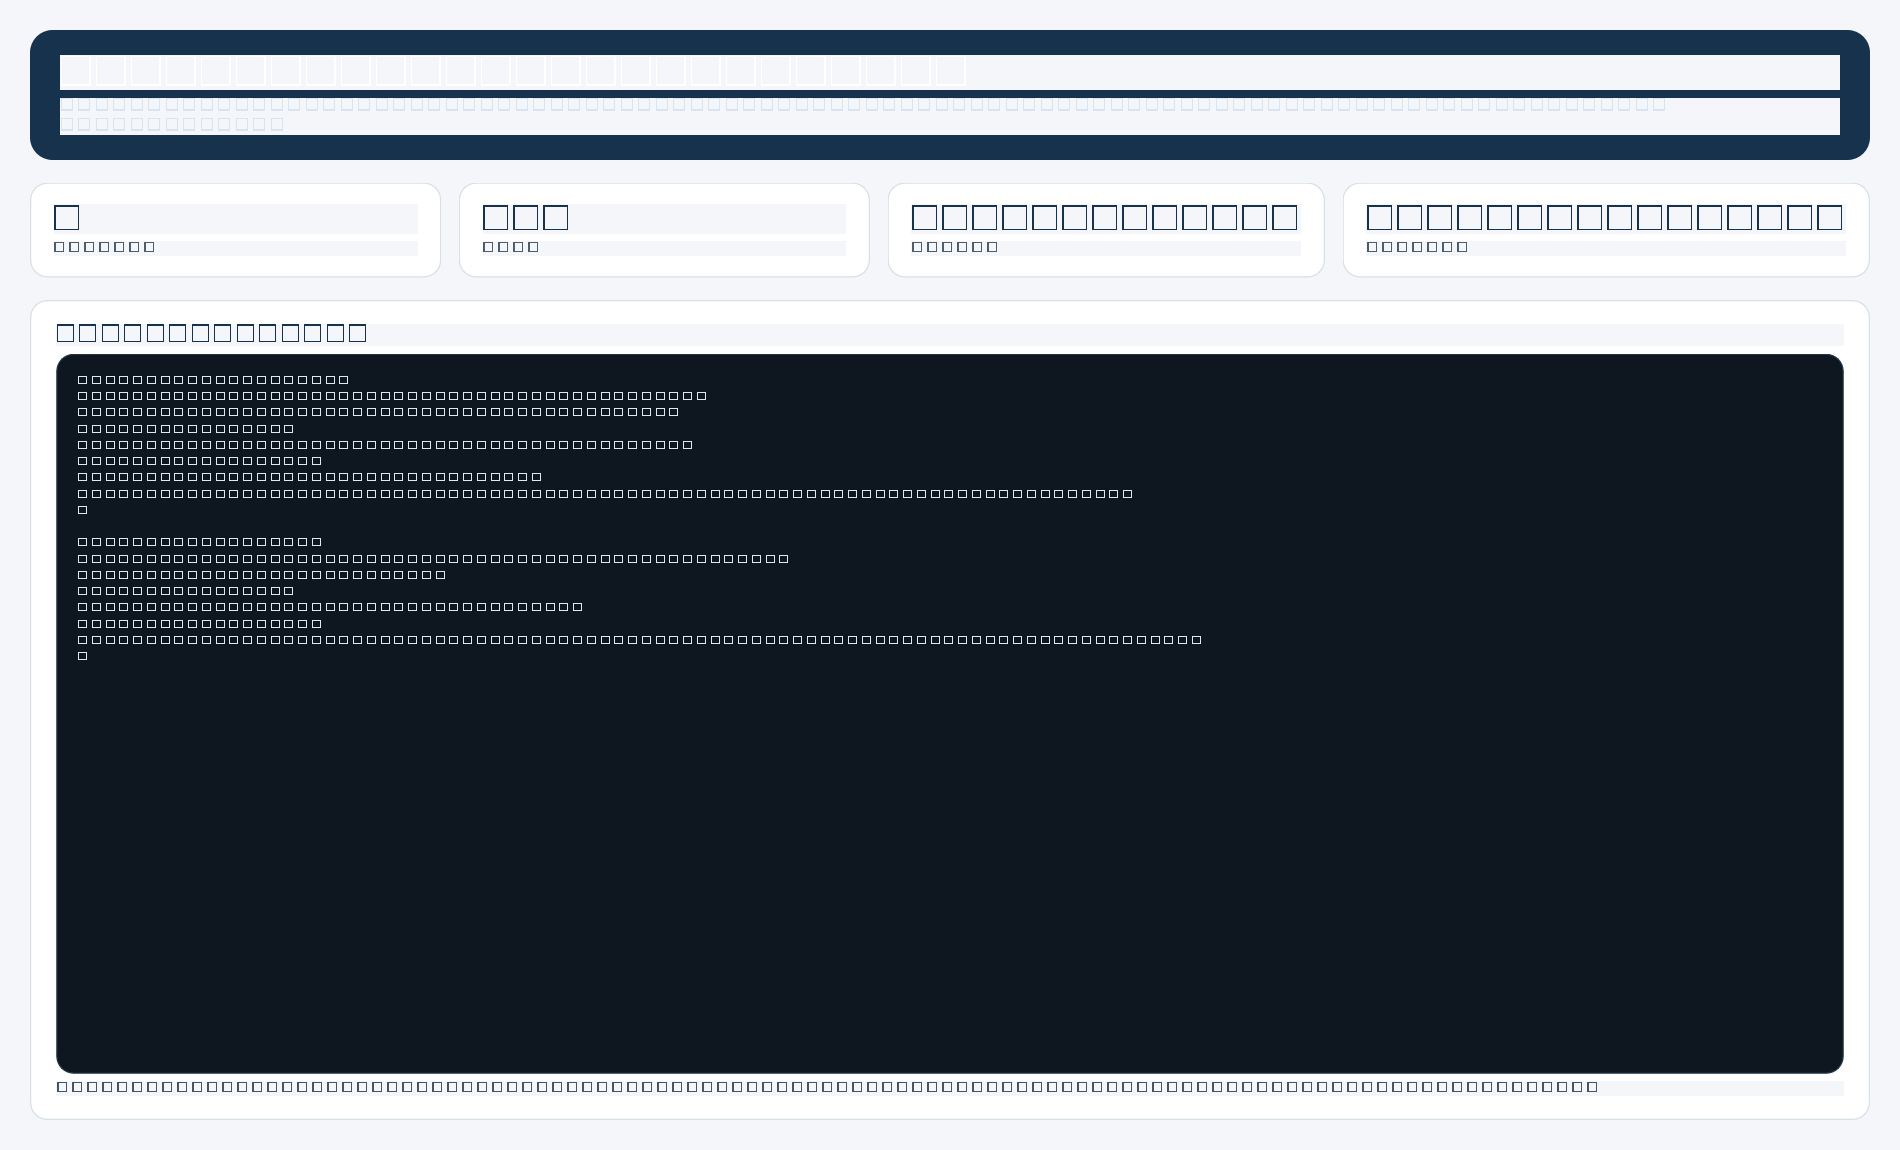
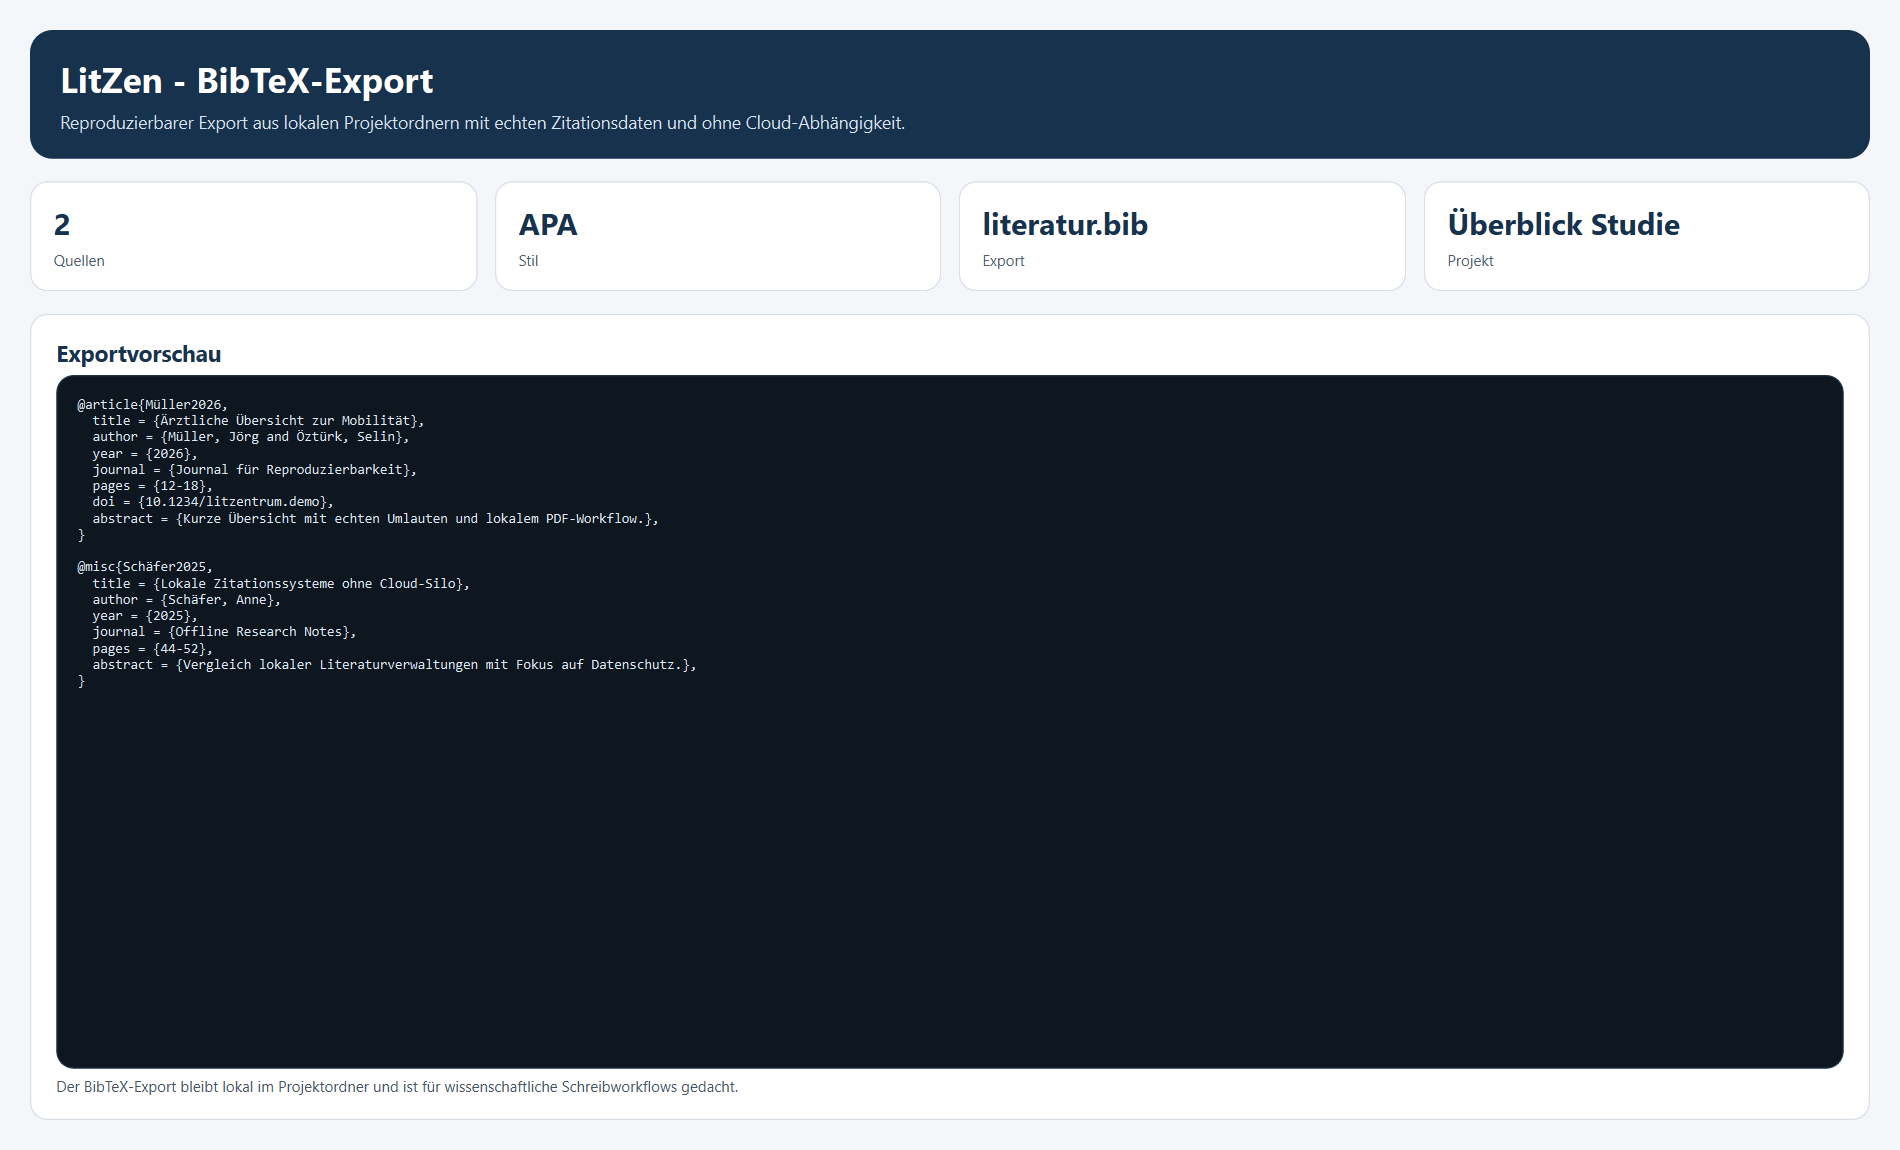
fix: Store-Screenshots zeigten Tofu statt Text (Welle-1 U2)
Alle vier Store-Screenshots bestanden aus leeren Kaestchen -- keine einzige
lesbare Beschriftung. Als Store-Material waren sie unbrauchbar und haetten
unter Policy 10.1.1.3 zur Ablehnung gefuehrt.

Ursache: generate_store_screenshots.py setzte QT_QPA_PLATFORM=offscreen.
Unter der offscreen-Plattform rendert Qt auf diesem System keine echten
Glyphen; jedes Zeichen wird zum .notdef-Kaestchen, und widget.grab()
fotografiert genau das.

Behoben nach dem Muster von DATA/REL_ProfiPrompt:
- _ensure_native_platform() raeumt ein erzwungenes offscreen ab, bevor die
  QApplication entsteht (Testlaeufe duerfen es weiterhin setzen).
- Fenster und Vorschau-Widgets werden ueber Qt.WA_DontShowOnScreen
  unsichtbar gehalten statt ueber die Plattform.
- Laufzeit-Guard: laeuft Qt dennoch unter offscreen, bricht der Generator
  ab, statt stillschweigend unbrauchbare Bilder zu schreiben.

Zwei Folgefehler, die erst mit lesbarem Text sichtbar wurden:
- Statuszeile: showMessage() blendet die normalen Statusleisten-Widgets nur
  bei real gemapptem Fenster aus. Unter WA_DontShowOnScreen wurden Botschaft
  und Projekt-Label uebereinandergezeichnet (unlesbarer Textsalat).
  _show_status_message() blendet das Label jetzt explizit aus.
- Vorschau-Widgets: die Labels erbten den hellen QWidget-Hintergrund aus dem
  Stylesheet und malten ihn als Balken hinter den Text -- der weisse
  Hero-Titel stand weiss auf hellgrau. QLabel ist jetzt transparent.
[…]

diff --git a/generate_store_screenshots.py b/generate_store_screenshots.py
@@ -8,8 +8,26 @@ import time
 from dataclasses import dataclass
 from pathlib import Path
 
-os.environ.setdefault("QT_QPA_PLATFORM", "offscreen")
 os.environ.setdefault("QT_SCALE_FACTOR", "1.25")
+
+
+def _ensure_native_platform() -> None:
+    """Entfernt eine erzwungene offscreen-Plattform VOR der QApplication-Erzeugung.
+
+    ROOT CAUSE des Tofu-Bugs (Welle-1 U2): Unter QT_QPA_PLATFORM=offscreen
+    rendert Qt auf diesem System keine echten Glyphen -- jedes Zeichen wird zum
+    .notdef-Kaestchen. window.grab() liefert dann Screenshots, auf denen die
+    komplette Oberflaeche aus leeren Kaestchen besteht; als Store-Material sind
+    sie unbrauchbar. Der Generator laeuft deshalb auf der nativen Plattform und
+    haelt das Fenster stattdessen ueber Qt.WA_DontShowOnScreen unsichtbar.
+    Testlaeufe duerfen offscreen weiterhin setzen -- hier wird es abgeraeumt,
+    solange noch keine QApplication existiert.
+    """
+    if os.environ.get("QT_QPA_PLATFORM") == "offscreen":
+        del os.environ["QT_QPA_PLATFORM"]
+
+
+_ensure_native_platform()
 
 from PySide6 import QtCore, QtWidgets
 
@@ -64,6 +82,10 @@ class StorePreviewWidget(QtWidgets.QWidget):
         self.setStyleSheet(
             """
             QWidget { background: #f4f6f9; color: #17212b; font-family: Segoe UI; }
+            /* Ohne diese Zeile erben die Labels den hellen QWidget-Hintergrund
+               und malen ihn als Balken hinter den Text -- der weisse Hero-Titel
+               stand dadurch weiss auf hellgrau und war unlesbar. */
+            QLabel { background: transparent; }
             QFrame#hero { background: #17324d; border-radius: 18px; }
             QLabel#heroTitle { color: white; font-size: 28px; font-weight: 700; }
             QLabel#heroSubtitle { color: #d7e4f1; font-size: 14px; }
@@ -305,7 +327,27 @@ def _build_demo_project(workspace: Path) -> DemoContext:
     )
 
 
+def _show_status_message(window: QtWidgets.QMainWindow, text: str) -> None:
+    """Setzt die Statuszeile ueberlagerungsfrei.
+
+    Bei einem real gemappten Fenster blendet QStatusBar.showMessage() die
+    normalen (nicht-permanenten) Widgets selbst aus. Unter
+    WA_DontShowOnScreen + grab() greift das nicht: Botschaft und
+    Projekt-Label werden uebereinandergezeichnet, im Screenshot entsteht
+    unlesbarer Textsalat. Das normale Label wird deshalb explizit versteckt;
+    das permanente Quellen-Label bleibt sichtbar, wie es auch Qt handhabt.
+    """
+    label = getattr(window, "project_label", None)
+    if label is not None:
+        label.hide()
+    window.statusBar().showMessage(text, 0)
+
+
 def _save_widget(widget: QtWidgets.QWidget, target: Path) -> None:
+    # Unsichtbar halten, ohne die offscreen-Plattform zu benutzen (siehe
+    # _ensure_native_platform): so rendern Glyphen korrekt, aber waehrend des
+    # Laufs poppt kein Fenster auf.
+    widget.setAttribute(QtCore.Qt.WidgetAttribute.WA_DontShowOnScreen, True)
     widget.show()
     widget.raise_()
     widget.activateWindow()
@@ -401,7 +443,20 @@ def generate_store_screenshots(output_dir: Path) -> list[Path]:
         app.setApplicationVersion("1.0.0")
         app.setStyle("Fusion")
 
+        # Fail-fast statt stiller Tofu-Bilder: laeuft Qt doch unter offscreen
+        # (z. B. weil eine QApplication schon vorher erzeugt wurde), waeren die
+        # Screenshots wertlos -- lieber hier abbrechen als unbrauchbares
+        # Store-Material erzeugen.
+        platform_name = app.platformName()
+        if platform_name == "offscreen":
+            raise RuntimeError(
+                "Qt laeuft unter der 'offscreen'-Plattform -- die Screenshots wuerden "
+                "Tofu (Kaestchen statt Text) enthalten. QT_QPA_PLATFORM=offscreen nicht "
+                "setzen; der Generator nutzt WA_DontShowOnScreen auf der nativen Plattform."
+            )
+
         window = MainWindow()
+        window.setAttribute(QtCore.Qt.WidgetAttribute.WA_DontShowOnScreen, True)
         window.resize(1520, 920)
         targets = [
             output_dir / SCREENSHOT_FILES["main"],
@@ -416,7 +471,7 @@ def generate_store_screenshots(output_dir: Path) -> list[Path]:
             window.source_list.search_input.setText("Müller")
             _process_events(app, 0.12)
             window.detail_panel.tabs.setCurrentWidget(window.detail_panel.pdf_tab)
-            window.statusBar().showMessage("Lokales Literaturprojekt mit PDF-Vorschau geöffnet", 0)
+            _show_status_message(window, "Lokales Literaturprojekt mit PDF-Vorschau geöffnet")
             _save_widget(window, targets[0])
 
             window.source_list.search_input.clear()
@@ -424,7 +479,7 @@ def generate_store_screenshots(output_dir: Path) -> list[Path]:
             window.detail_panel.quotes_tab.type_filter.setCurrentText("Direkt")
             if window.detail_panel.quotes_tab.list_widget.count() > 0:
                 window.detail_panel.quotes_tab.list_widget.setCurrentRow(0)
-            window.statusBar().showMessage("Zitierworkflow mit Seitenbezug und Kommentar", 0)
+            _show_status_message(window, "Zitierworkflow mit Seitenbezug und Kommentar")
             _save_widget(window, targets[1])
         finally:
             window.detail_panel.pdf_tab.pdf_viewer.close_pdf()

diff --git a/tests/test_store_screenshots.py b/tests/test_store_screenshots.py
@@ -22,3 +22,58 @@ def test_generate_store_screenshots_creates_expected_pngs_and_summary() -> None:
 
         summary = json.loads((output_dir / SUMMARY_FILE).read_text(encoding="utf-8"))
         assert [entry["name"] for entry in summary["files"]] == list(SCREENSHOT_FILES.values())
+
+
+# --- Tofu-Regression (Welle-1 U2) ------------------------------------------
+# Root-Cause: QT_QPA_PLATFORM=offscreen + widget.grab() rendert auf diesem
+# System keine echten Glyphen (.notdef-Kaestchen = Tofu). Die erzeugten
+# Store-Screenshots bestanden dadurch komplett aus leeren Kaestchen.
+# Fix: native Plattform + Qt.WA_DontShowOnScreen. Diese Tests sichern dagegen.
+
+def _generator_source() -> str:
+    generator = Path(__file__).resolve().parents[1] / "generate_store_screenshots.py"
+    return generator.read_text(encoding="utf-8")
+
+
+def test_generator_uses_native_platform_not_offscreen() -> None:
+    """Der Generator darf die offscreen-Plattform nicht erzwingen."""
+    import re
+
+    source = _generator_source()
+    assert "WA_DontShowOnScreen" in source, (
+        "Fix fehlt: Das Fenster muss ueber WA_DontShowOnScreen unsichtbar "
+        "gehalten werden statt ueber die offscreen-Plattform."
+    )
+    forces_offscreen = re.search(
+        r"""environ(?:\.setdefault\(|\[)\s*["']QT_QPA_PLATFORM["']\s*[,\]]\s*=?\s*["']offscreen["']""",
+        source,
+    )
+    assert not forces_offscreen, (
+        "Generator setzt QT_QPA_PLATFORM auf offscreen -- die Screenshots "
+        "wuerden Tofu (Kaestchen statt Text) enthalten."
+    )
+
+
+def test_generator_guards_against_offscreen_at_runtime() -> None:
+    """Auch zur Laufzeit muss offscreen erkannt und abgelehnt werden."""
+    source = _generator_source()
+    assert 'platform_name == "offscreen"' in source, (
+        "Laufzeit-Guard fehlt: Laeuft Qt doch unter offscreen, muss der "
+        "Generator abbrechen statt unbrauchbare Bilder zu schreiben."
+    )
+
+
+def test_status_message_hides_overlapping_label() -> None:
+    """Die Statuszeile darf sich nicht mit dem Projekt-Label ueberlagern."""
+    source = _generator_source()
+    assert "_show_status_message" in source, (
+        "Ohne _show_status_message zeichnen Statusbotschaft und Projekt-Label "
+        "uebereinander -- im Screenshot entsteht unlesbarer Textsalat."
+    )
+    # showMessage darf nur an genau einer Stelle stehen: in der Hilfsfunktion
+    # selbst. Jeder weitere Aufruf umgeht das Ausblenden des Projekt-Labels.
+    assert source.count("().showMessage(") == 1, (
+        "showMessage() wird ausserhalb von _show_status_message() aufgerufen; "
+        "dort fehlt das Ausblenden des Projekt-Labels, wodurch sich Botschaft "
+        "und Label im Screenshot ueberlagern."
+    )
